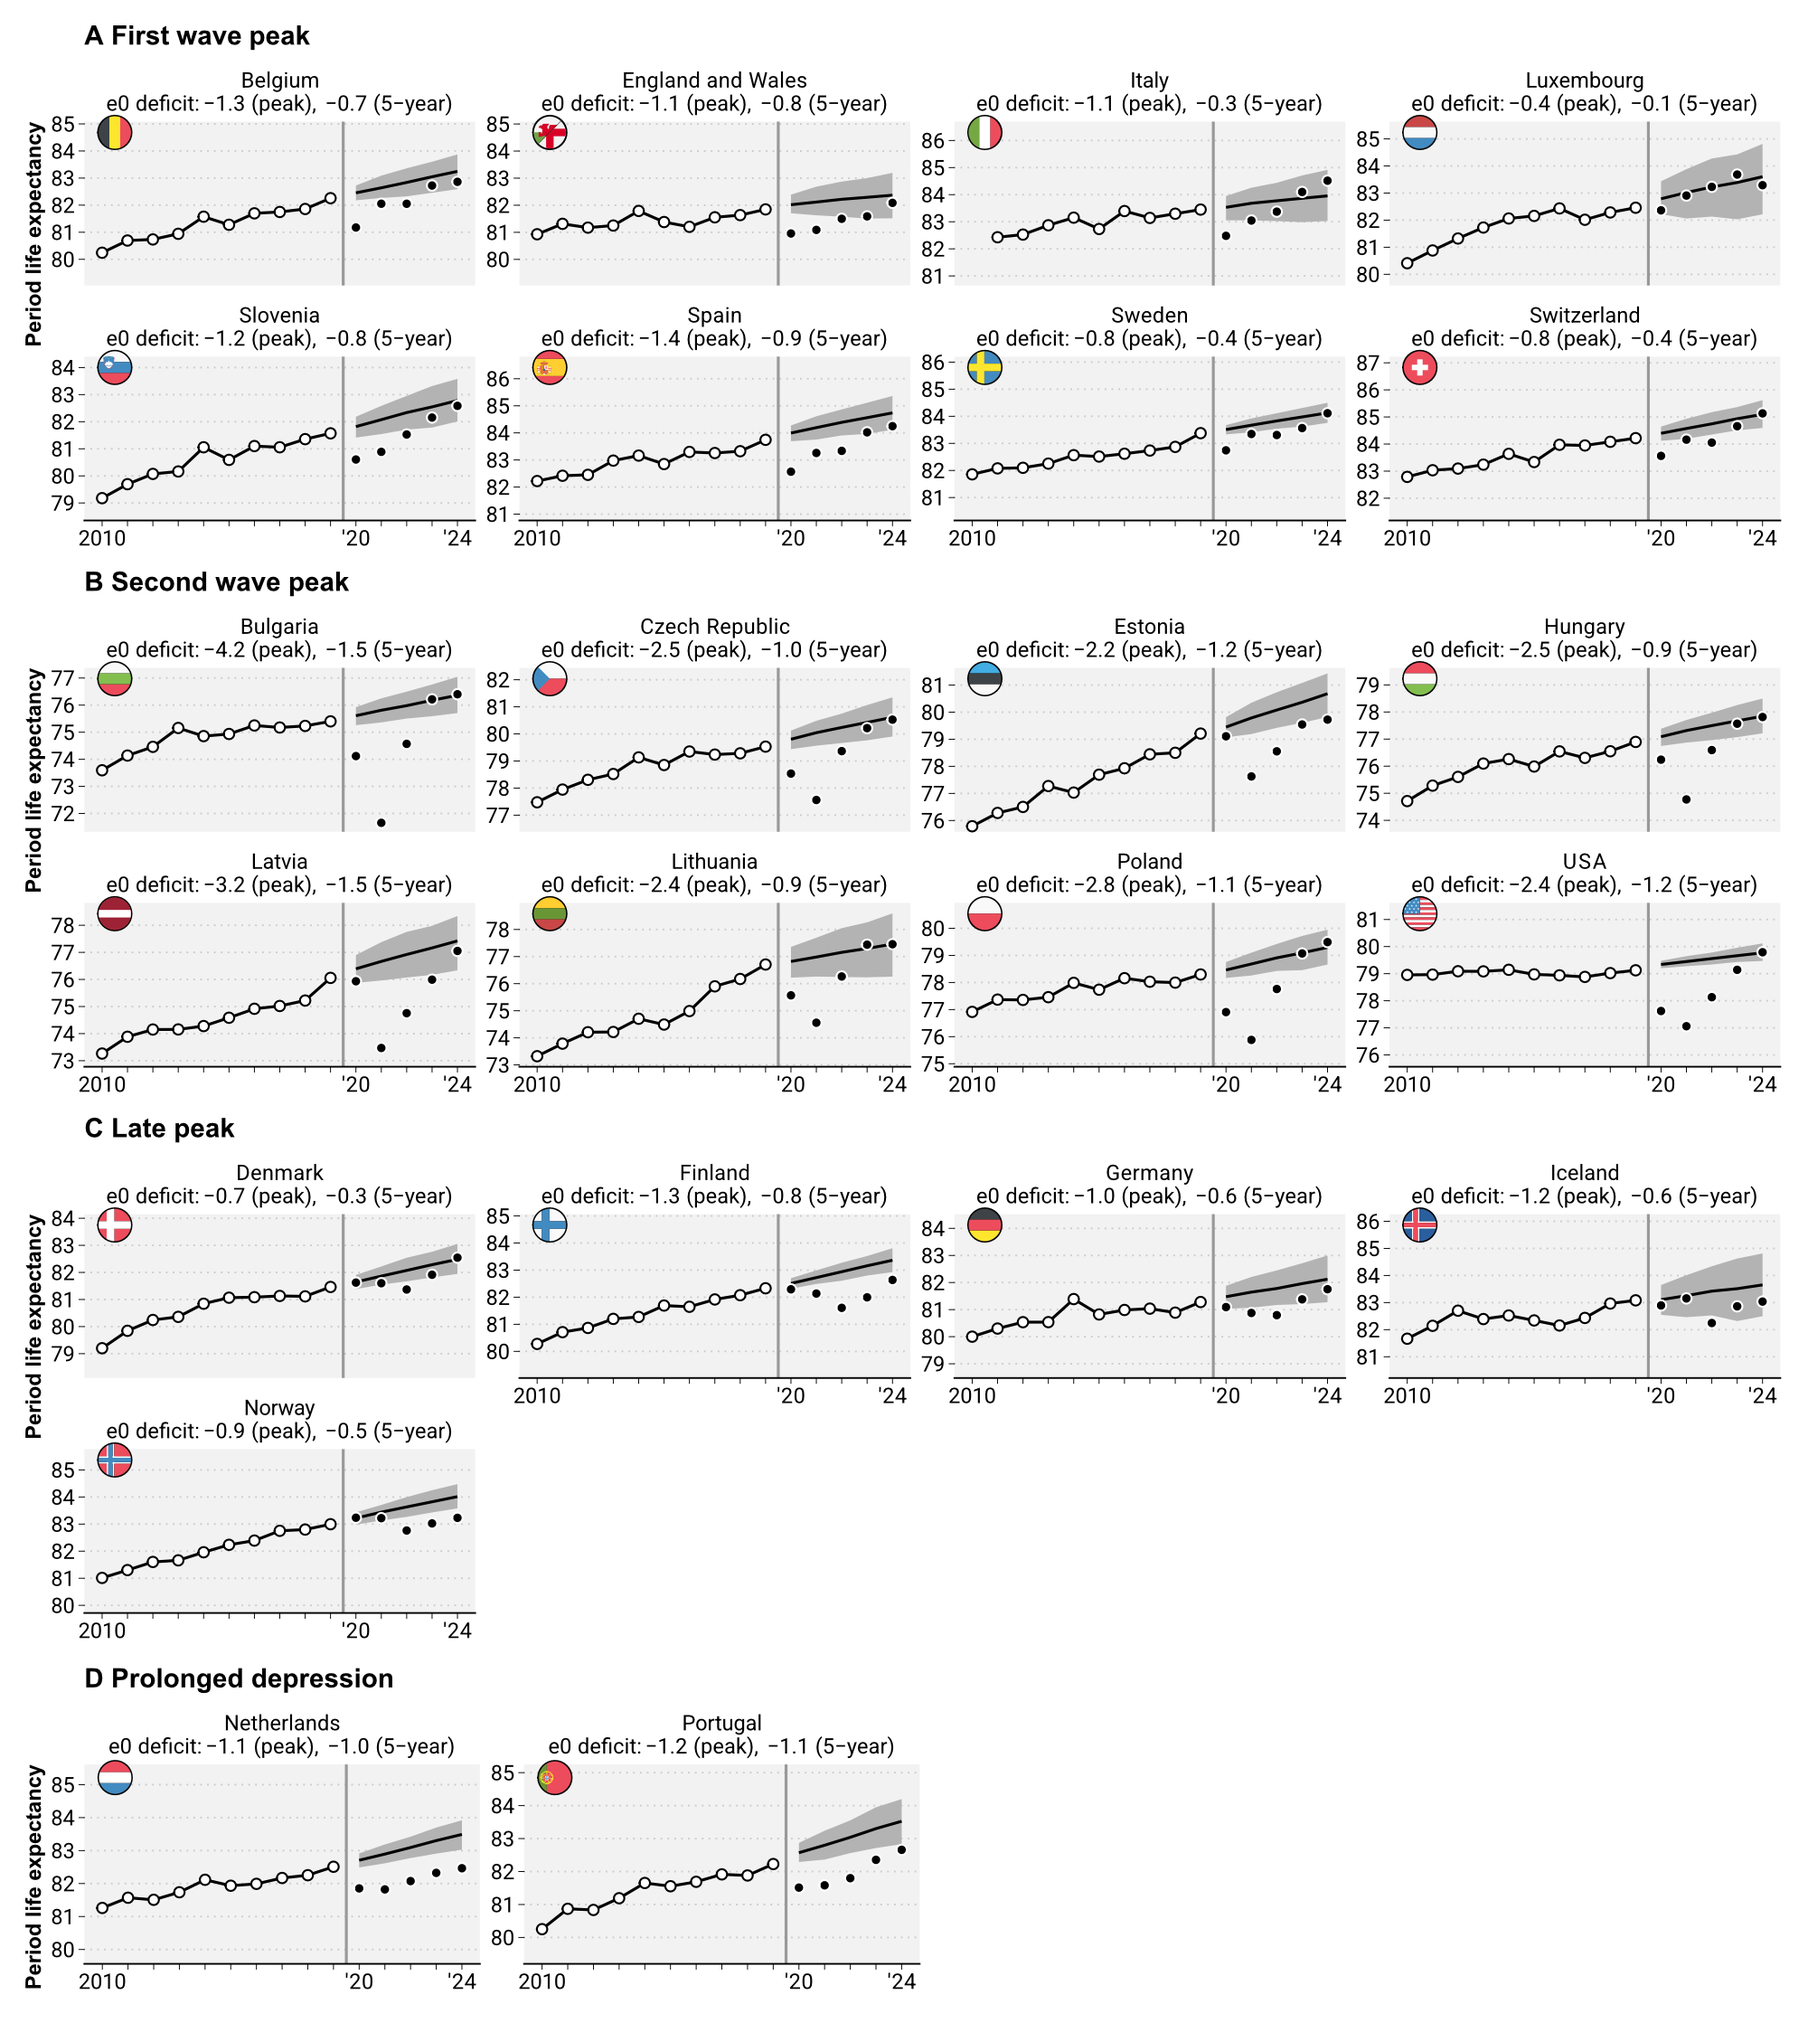
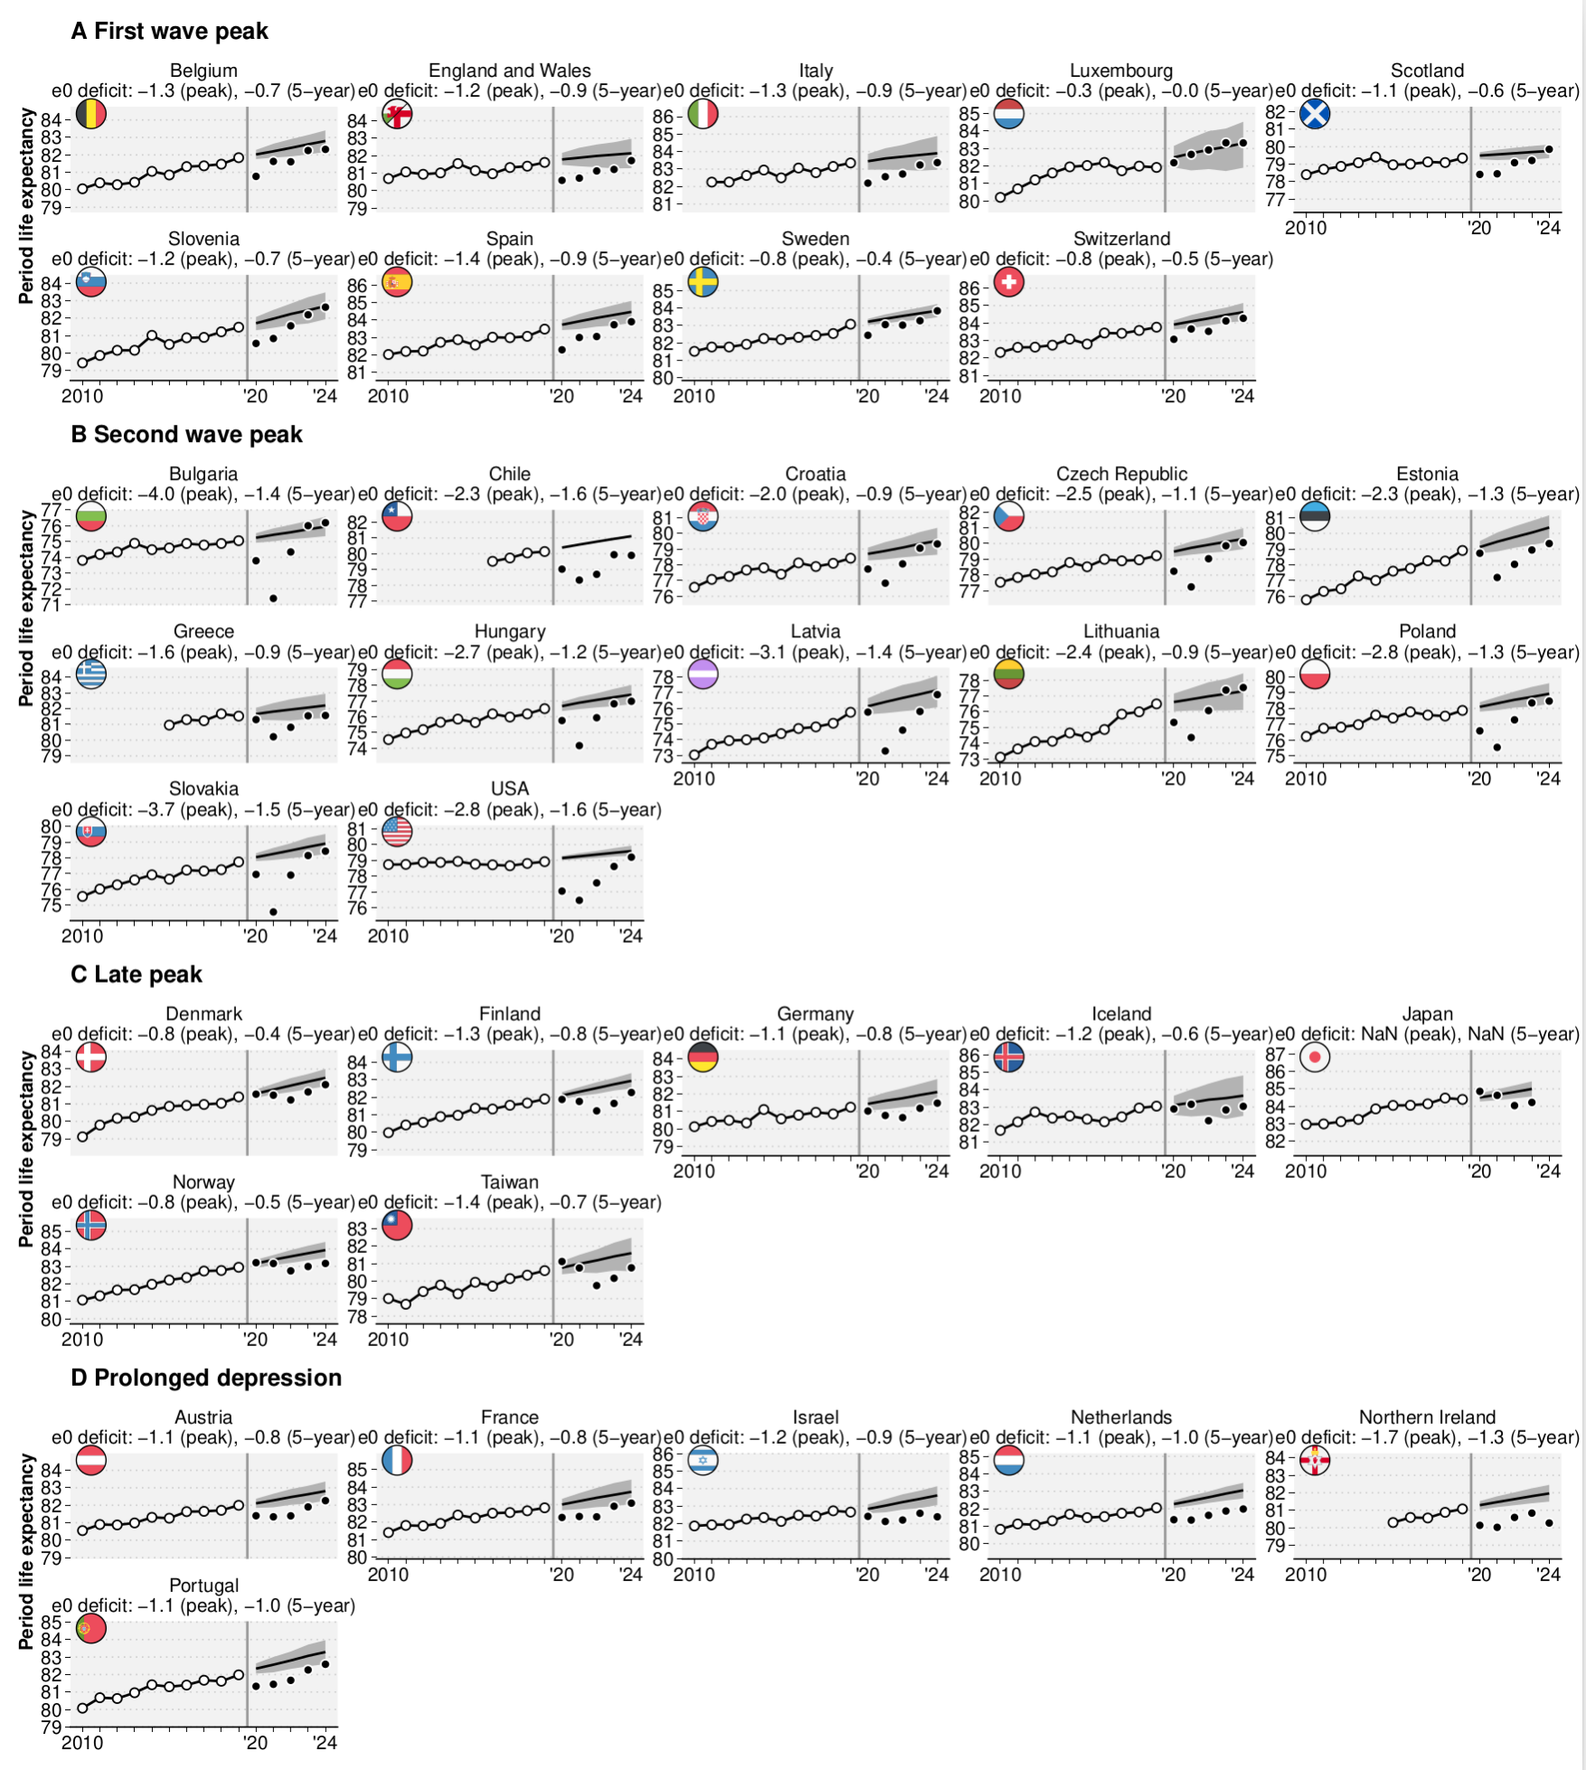
Add e0deficit by sex

Changed region(s): [[0.0, 0.0, 1.0, 0.9969], [0.2771, 0.9346, 0.3387, 0.9969], [0.431, 0.9658, 0.4618, 0.9969]]

diff --git a/README.md b/README.md
@@ -1,5 +1,14 @@
-# Life expectancy deficits since COVID-19
+# Temporary Shock or Lasting scar? Life Expectancy Trajectories since 2020
 
-[Jonas Schöley](https://orcid.org/0000-0002-3340-8518) et al.
+Jonas Schöley [![ORCID](https://info.orcid.org/wp-content/uploads/2019/11/orcid_16x16.png)](https://orcid.org/0000-0002-3340-8518) · [jschoeley.com](https://www.jschoeley.com/)
+
+Jennifer B. Dowd [![ORCID](https://info.orcid.org/wp-content/uploads/2019/11/orcid_16x16.png)](https://orcid.org/0000-0003-2006-5656)
+José Manuel Aburto [![ORCID](https://info.orcid.org/wp-content/uploads/2019/11/orcid_16x16.png)](https://orcid.org/0000-0002-2926-6879)
+Hannaliis Jaadla [![ORCID](https://info.orcid.org/wp-content/uploads/2019/11/orcid_16x16.png)](https://orcid.org/0000-0002-8569-347X)
+Antonino Polizzi [![ORCID](https://info.orcid.org/wp-content/uploads/2019/11/orcid_16x16.png)](https://orcid.org/0000-0001-9169-8608)
+Haohao Lei [![ORCID](https://info.orcid.org/wp-content/uploads/2019/11/orcid_16x16.png)](https://orcid.org/0009-0003-7575-1239)
+Ridhi Kashyap [![ORCID](https://info.orcid.org/wp-content/uploads/2019/11/orcid_16x16.png)](https://orcid.org/0000-0003-0615-2868)
 
 ![](./ass/teaser.png)
+
+The COVID-19 pandemic led to substantial life expectancy losses globally. Typically, life expectancy returns to previous trajectories after reversals, but whether this is true for the COVID-19 pandemic is not known. We update life expectancy estimates through 2024 for mainly high-income countries with available age-sex disaggregated mortality data from the [STMF](https://www.mortality.org/Data/STMF). We calculate observed life expectancy for individual and combined years 2020-2024 and life expectancy "deficits" compared to pre-pandemic forecasts for each individual year and the overall period. We identify four broad typologies of pandemic mortality experiences across high-income countries, characterized by the timing and magnitude of the mortality shock and their recovery.
